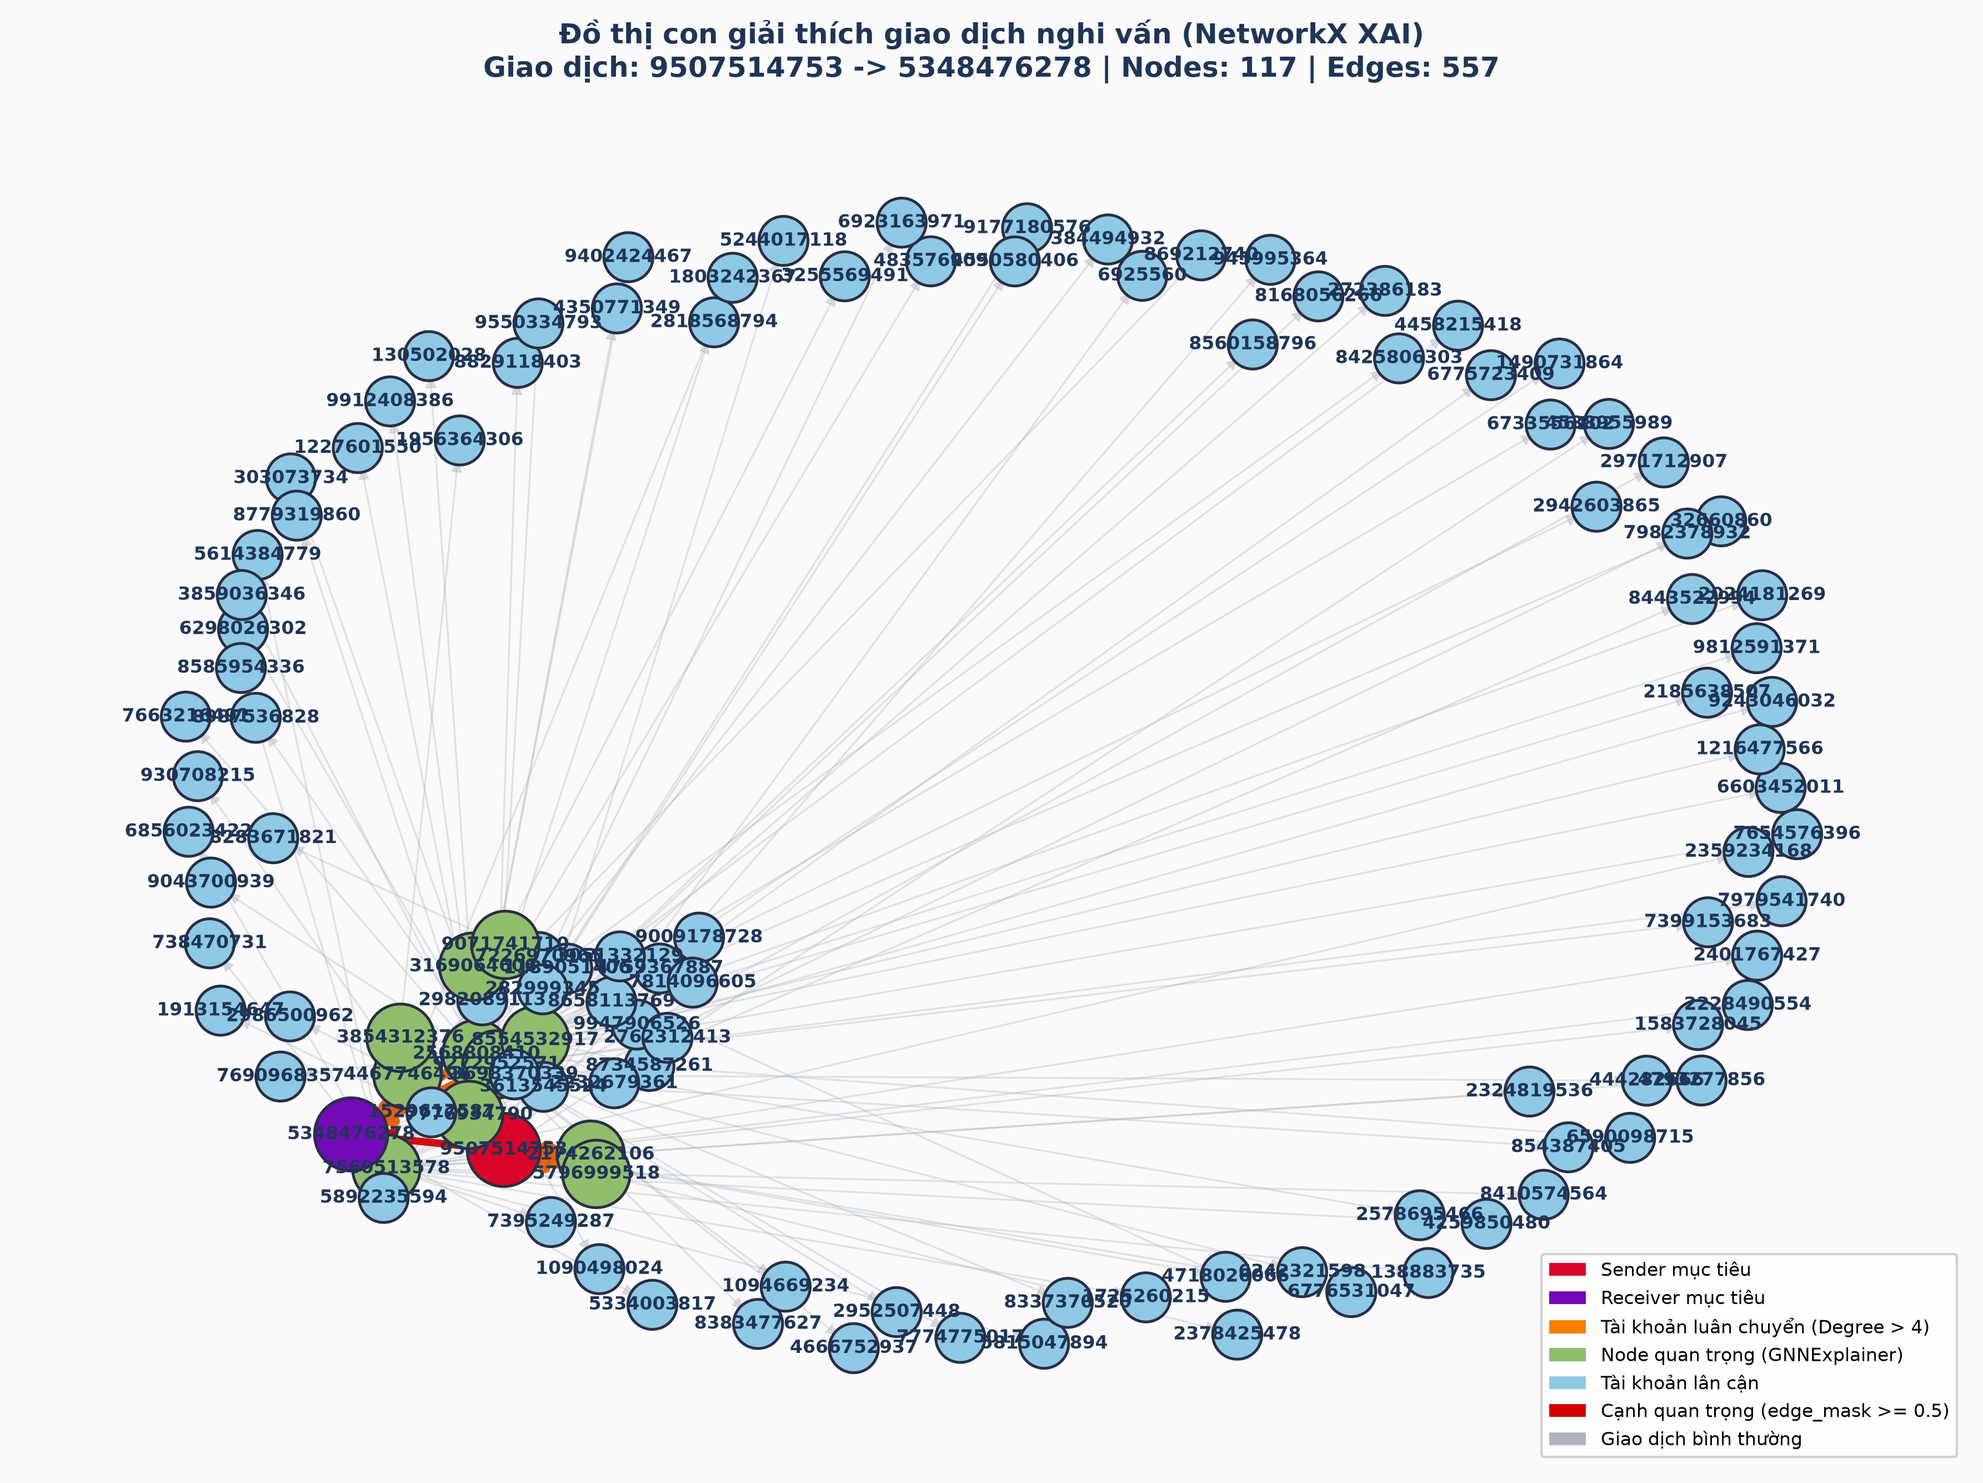
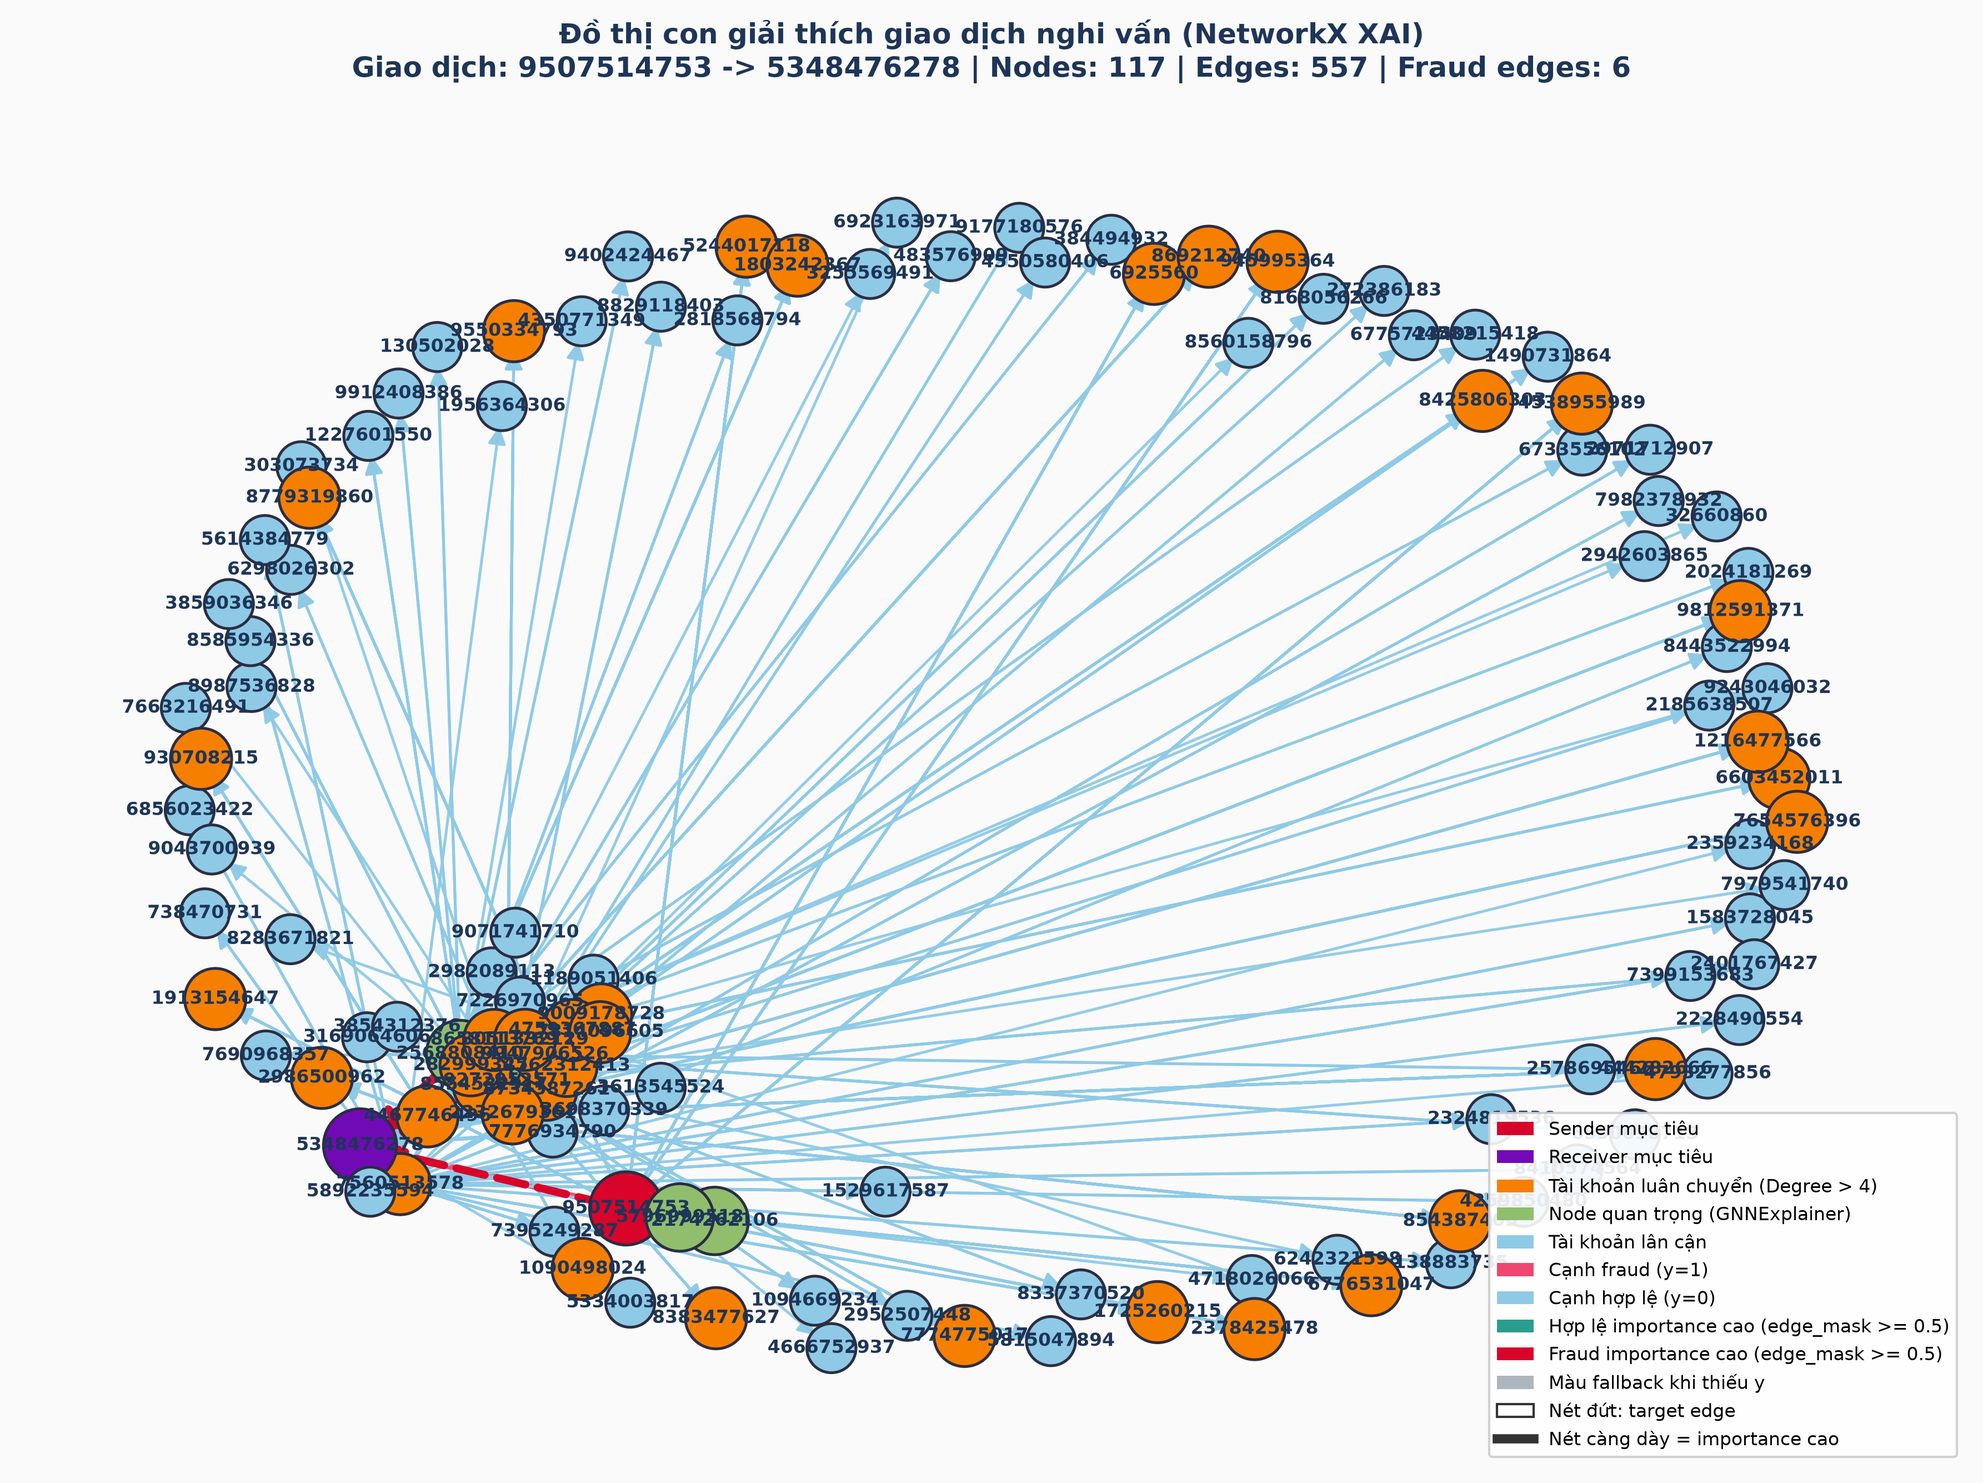
Trực quan hóa giao dịch gian lận thành đồ thị

Changed region(s): [[0.0622, 0.1244, 0.9639, 0.9951], [0.1866, 0.0311, 0.8084, 0.0622]]

diff --git a/src/graph_visualizer.py b/src/graph_visualizer.py
@@ -20,6 +20,7 @@ import matplotlib
 matplotlib.use("Agg")  # Chế độ headless, lưu ảnh trực tiếp không cần mở cửa sổ GUI
 import matplotlib.pyplot as plt
 import matplotlib.patches as mpatches
+import matplotlib.lines as mlines
 import networkx as nx
 import numpy as np
 import torch
@@ -86,6 +87,50 @@ class SubgraphXaiVisualizer:
         s = str(account_id)
         return s if len(s) <= max_len else f"{s[:4]}..{s[-3:]}"
 
+    @staticmethod
+    def _normalize_edge_importance(
+        edge_mask: torch.Tensor | np.ndarray | None,
+        num_edges: int,
+    ) -> np.ndarray:
+        if edge_mask is None:
+            return np.zeros(num_edges, dtype=np.float32)
+        values = (
+            edge_mask.detach().cpu().numpy()
+            if isinstance(edge_mask, torch.Tensor)
+            else np.asarray(edge_mask)
+        )
+        values = np.asarray(values, dtype=np.float32).reshape(-1)
+        if values.size != num_edges:
+            print(
+                f"[Visualizer] Cảnh báo edge_mask có {values.size} phần tử, "
+                f"cần {num_edges}; dùng importance mặc định."
+            )
+            return np.zeros(num_edges, dtype=np.float32)
+        values = np.nan_to_num(np.abs(values), nan=0.0, posinf=0.0, neginf=0.0)
+        maximum = float(values.max()) if values.size else 0.0
+        if maximum <= 0.0:
+            return np.zeros(num_edges, dtype=np.float32)
+        return np.clip(values / maximum, 0.0, 1.0)
+
+    @staticmethod
+    def _get_edge_labels(sub_data: Data, num_edges: int) -> np.ndarray | None:
+        labels = getattr(sub_data, "y", None)
+        if labels is None:
+            print("[Visualizer] Cảnh báo subgraph không có y; dùng màu fallback cho cạnh.")
+            return None
+        if isinstance(labels, torch.Tensor):
+            values = labels.detach().cpu().numpy()
+        else:
+            values = np.asarray(labels)
+        values = np.asarray(values).reshape(-1)
+        if values.size != num_edges:
+            print(
+                f"[Visualizer] Cảnh báo y có {values.size} phần tử, "
+                f"cần {num_edges}; dùng màu fallback cho cạnh."
+            )
+            return None
+        return values
+
     # 2. CHUYỂN ĐỔI PYG SANG NETWORKX VÀ VẼ ĐỒ THỊ
     def plot_subgraph_explanation(
         self,
@@ -99,28 +144,14 @@ class SubgraphXaiVisualizer:
     ) -> Path:
         """
         Vẽ đồ thị con giải thích bằng NetworkX và Matplotlib.
-        Làm nổi bật các cạnh có trọng số edge_mask >= mask_threshold.
+        Màu cạnh lấy từ sub_data.y; edge_mask chỉ điều chỉnh importance và độ dày.
         """
         edge_index = sub_data.edge_index.cpu().numpy()
         num_edges = edge_index.shape[1]
         num_nodes = sub_data.num_nodes
 
-        # Chuẩn bị trọng số edge_mask (nếu chưa có từ TV3, dùng giả lập kiểm thử)
-        if edge_mask is None:
-            edge_weights = np.ones(num_edges, dtype=np.float32) * 0.2
-            target_idx = getattr(sub_data, "target_edge_idx_in_sub", 0)
-            if 0 <= target_idx < num_edges:
-                edge_weights[target_idx] = 0.95
-        else:
-            if isinstance(edge_mask, torch.Tensor):
-                edge_weights = edge_mask.detach().cpu().numpy().astype(np.float32)
-            else:
-                edge_weights = np.asarray(edge_mask, dtype=np.float32)
-            edge_weights = edge_weights.reshape(-1)
-            if edge_weights.size != num_edges:
-                raise ValueError(
-                    f"edge_mask có {edge_weights.size} phần tử, cần {num_edges}"
-                )
+        edge_importance = self._normalize_edge_importance(edge_mask, num_edges)
+        edge_labels = self._get_edge_labels(sub_data, num_edges)
 
         if node_importance is None and hasattr(sub_data, "node_importance"):
             node_importance = sub_data.node_importance
@@ -146,20 +177,32 @@ class SubgraphXaiVisualizer:
             for nid, acc in node_accounts.items()
         }
 
-        # Xây dựng NetworkX DiGraph
-        G = nx.DiGraph()
+        # MultiDiGraph giữ lại cả các giao dịch song song giữa cùng một cặp node.
+        G = nx.MultiDiGraph()
         for i in range(num_nodes):
             G.add_node(i, label=node_labels[i])
 
         target_sub_idx = getattr(sub_data, "target_edge_idx_in_sub", -1)
+        if not isinstance(target_sub_idx, (int, np.integer)) or not 0 <= target_sub_idx < num_edges:
+            target_sub_idx = -1
         for i in range(num_edges):
             u, v = int(edge_index[0, i]), int(edge_index[1, i])
-            w = float(edge_weights[i]) if i < len(edge_weights) else 0.0
-            G.add_edge(u, v, weight=w, is_target=(i == target_sub_idx))
+            G.add_edge(
+                u,
+                v,
+                key=i,
+                edge_index=i,
+                weight=float(edge_importance[i]),
+                label=None if edge_labels is None else int(edge_labels[i] == 1),
+                is_target=(i == target_sub_idx),
+            )
 
         # Phân loại màu cho nút trung tâm (Sender/Receiver mục tiêu)
-        target_u = int(sub_data.target_edge_label_index[0, 0].item()) if hasattr(sub_data, "target_edge_label_index") else 0
-        target_v = int(sub_data.target_edge_label_index[1, 0].item()) if hasattr(sub_data, "target_edge_label_index") else 1
+        target_u, target_v = 0, 1
+        target_index = getattr(sub_data, "target_edge_label_index", None)
+        if isinstance(target_index, torch.Tensor) and target_index.ndim == 2 and target_index.shape[1] > 0:
+            target_u = int(target_index[0, 0].item())
+            target_v = int(target_index[1, 0].item())
 
         node_colors = []
         node_sizes = []
@@ -180,21 +223,35 @@ class SubgraphXaiVisualizer:
                 node_colors.append("#8ecae6")  # Xanh nhạt - Nút thông thường
                 node_sizes.append(450)
 
-        # Phân loại cạnh: Nổi bật (High Mask) vs Cạnh nền (Normal)
-        high_edges = []
-        high_widths = []
-        high_colors = []
-        bg_edges = []
-
-        for u, v, d in G.edges(data=True):
-            w = d.get("weight", 0.0)
-            is_target = d.get("is_target", False)
-            if is_target or w >= mask_threshold:
-                high_edges.append((u, v))
-                high_widths.append(2.0 + w * 3.0)
-                high_colors.append("#d00000" if is_target else "#e85d04")
+        fraud_edges, normal_edges, fallback_edges = [], [], []
+        fraud_widths, normal_widths, fallback_widths = [], [], []
+        fraud_colors, normal_colors, fallback_colors = [], [], []
+        target_edges = []
+        target_colors = []
+        for u, v, key, d in G.edges(keys=True, data=True):
+            importance = float(d["weight"])
+            width = 1.2 + importance * 3.8
+            if d["is_target"]:
+                width += 1.0
+                target_edges.append((u, v, key))
+                if edge_labels is None:
+                    target_colors.append("#e85d04")
+                elif d["label"] == 1:
+                    target_colors.append("#d90429")
+                else:
+                    target_colors.append("#2a9d8f")
+            if edge_labels is None:
+                fallback_edges.append((u, v, key))
+                fallback_widths.append(width)
+                fallback_colors.append("#e85d04" if importance >= mask_threshold else "#adb5bd")
+            elif d["label"] == 1:
+                fraud_edges.append((u, v, key))
+                fraud_widths.append(width)
+                fraud_colors.append("#d90429" if importance >= mask_threshold else "#ef476f")
             else:
-                bg_edges.append((u, v))
+                normal_edges.append((u, v, key))
+                normal_widths.append(width)
+                normal_colors.append("#2a9d8f" if importance >= mask_threshold else "#8ecae6")
 
         # Tính bố cục hiển thị (Spring Layout)
         pos = nx.spring_layout(G, k=1.8 / np.sqrt(max(1, num_nodes)), iterations=70, seed=42)
@@ -203,17 +260,27 @@ class SubgraphXaiVisualizer:
         ax.set_facecolor("#fafafa")
 
         # Vẽ cạnh nền mờ
-        if bg_edges:
+        if fallback_edges:
             nx.draw_networkx_edges(
-                G, pos, edgelist=bg_edges, edge_color="#adb5bd",
-                width=0.8, alpha=0.35, arrows=True, arrowsize=10, ax=ax,
+                G, pos, edgelist=fallback_edges, edge_color=fallback_colors,
+                width=fallback_widths, alpha=0.75, arrows=True, arrowsize=10, ax=ax,
             )
-
-        # Vẽ cạnh nổi bật có trọng số cao
-        if high_edges:
+        if fraud_edges:
             nx.draw_networkx_edges(
-                G, pos, edgelist=high_edges, edge_color=high_colors,
-                width=high_widths, alpha=0.95, arrows=True, arrowsize=16, ax=ax,
+                G, pos, edgelist=fraud_edges, edge_color=fraud_colors,
+                width=fraud_widths, alpha=0.95, arrows=True, arrowsize=16, ax=ax,
+            )
+        if normal_edges:
+            nx.draw_networkx_edges(
+                G, pos, edgelist=normal_edges, edge_color=normal_colors,
+                width=normal_widths, alpha=0.95, arrows=True, arrowsize=16, ax=ax,
+            )
+        if target_edges:
+            nx.draw_networkx_edges(
+                G, pos, edgelist=target_edges, edge_color=target_colors,
+                width=[1.0 + float(G.edges[u, v, key]["weight"]) * 3.8 + 2.0
+                       for u, v, key in target_edges],
+                style="dashed", arrows=True, arrowsize=18, ax=ax,
             )
 
         # Vẽ nút và nhãn
@@ -227,8 +294,13 @@ class SubgraphXaiVisualizer:
             mpatches.Patch(facecolor="#f77f00", label="Tài khoản luân chuyển (Degree > 4)"),
             mpatches.Patch(facecolor="#90be6d", label="Node quan trọng (GNNExplainer)"),
             mpatches.Patch(facecolor="#8ecae6", label="Tài khoản lân cận"),
-            mpatches.Patch(facecolor="#d00000", label=f"Cạnh quan trọng (edge_mask >= {mask_threshold})"),
-            mpatches.Patch(facecolor="#adb5bd", label="Giao dịch bình thường"),
+            mpatches.Patch(facecolor="#ef476f", label="Cạnh fraud (y=1)"),
+            mpatches.Patch(facecolor="#8ecae6", label="Cạnh hợp lệ (y=0)"),
+            mpatches.Patch(facecolor="#2a9d8f", label=f"Hợp lệ importance cao (edge_mask >= {mask_threshold})"),
+            mpatches.Patch(facecolor="#d90429", label=f"Fraud importance cao (edge_mask >= {mask_threshold})"),
+            mpatches.Patch(facecolor="#adb5bd", label="Màu fallback khi thiếu y"),
+            mpatches.Patch(facecolor="none", edgecolor="#333333", label="Nét đứt: target edge"),
+            mlines.Line2D([], [], color="#333333", linewidth=4, label="Nét càng dày = importance cao"),
         ]
         ax.legend(handles=legends, loc="lower right", fontsize=8, framealpha=0.9)
 
@@ -237,7 +309,9 @@ class SubgraphXaiVisualizer:
         dst_acc = meta.get("dst_account", str(target_v))
         ax.set_title(
             f"Đồ thị con giải thích giao dịch nghi vấn (NetworkX XAI)\n"
-            f"Giao dịch: {src_acc} -> {dst_acc} | Nodes: {num_nodes} | Edges: {num_edges}",
+            f"Giao dịch: {src_acc} -> {dst_acc} | Nodes: {num_nodes} | "
+            f"Edges: {num_edges} | Fraud edges: "
+            f"{int(np.sum(edge_labels == 1)) if edge_labels is not None else 'N/A'}",
             fontsize=12, fontweight="bold", color="#1d3557", pad=12,
         )
         ax.axis("off")

diff --git a/tests/test_graph_visualizer.py b/tests/test_graph_visualizer.py
@@ -1,0 +1,73 @@
+import tempfile
+import unittest
+from pathlib import Path
+
+import torch
+from torch_geometric.data import Data
+
+from src.graph_visualizer import SubgraphXaiVisualizer
+
+
+class TestGraphVisualizer(unittest.TestCase):
+    def make_graph(self, labels: torch.Tensor) -> Data:
+        data = Data(
+            x=torch.ones(4, 2),
+            edge_index=torch.tensor([[0, 1, 2, 3], [1, 2, 3, 0]]),
+            y=labels,
+        )
+        data.target_edge_label_index = data.edge_index[:, :1]
+        data.target_edge_idx_in_sub = 0
+        data.orig_account_ids = [10, 20, 30, 40]
+        data.metadata = {"src_account": 10, "dst_account": 20, "num_hops": 2}
+        return data
+
+    def test_labels_are_independent_from_edge_importance(self) -> None:
+        data = self.make_graph(torch.tensor([1, 0, 1, 0]))
+        visualizer = SubgraphXaiVisualizer(mapping_path=None)
+        self.assertEqual(
+            visualizer._get_edge_labels(data, 4).tolist(),
+            [1, 0, 1, 0],
+        )
+        importance = visualizer._normalize_edge_importance(
+            torch.tensor([-2.0, float("nan"), 0.5, 1.0]), 4
+        )
+        self.assertGreater(importance[0], importance[2])
+        self.assertEqual(importance[1], 0.0)
+
+    def test_shape_variants_and_mismatches_fallback(self) -> None:
+        visualizer = SubgraphXaiVisualizer(mapping_path=None)
+        data = self.make_graph(torch.tensor([[1], [0], [1], [0]]))
+        self.assertEqual(visualizer._get_edge_labels(data, 4).tolist(), [1, 0, 1, 0])
+        self.assertIsNone(visualizer._get_edge_labels(data, 3))
+        self.assertEqual(
+            visualizer._normalize_edge_importance(torch.ones(2), 4).tolist(),
+            [0.0, 0.0, 0.0, 0.0],
+        )
+
+    def test_png_is_created_with_label_colors_and_target(self) -> None:
+        data = self.make_graph(torch.tensor([1, 0, 1, 0]))
+        visualizer = SubgraphXaiVisualizer(mapping_path=None)
+        with tempfile.TemporaryDirectory() as directory:
+            output = visualizer.plot_subgraph_explanation(
+                data,
+                edge_mask=torch.tensor([0.1, 0.9, 0.3, 0.8]),
+                output_path=Path(directory) / "graph.png",
+            )
+            self.assertTrue(output.exists())
+            self.assertGreater(output.stat().st_size, 0)
+
+    def test_missing_labels_does_not_crash(self) -> None:
+        data = self.make_graph(torch.tensor([1, 0, 1, 0]))
+        del data.y
+        visualizer = SubgraphXaiVisualizer(mapping_path=None)
+        with tempfile.TemporaryDirectory() as directory:
+            output = visualizer.plot_subgraph_explanation(
+                data,
+                edge_mask=torch.tensor([float("nan"), -1.0, 0.2, 0.3]),
+                output_path=Path(directory) / "fallback.png",
+            )
+            self.assertTrue(output.exists())
+
+
+if __name__ == "__main__":
+    unittest.main()

diff --git a/docs/xai_gnnexplainer.md b/docs/xai_gnnexplainer.md
@@ -256,6 +256,13 @@ Mỗi `explanation_*.pt` chứa:
 - `metadata`
 - `source_subgraph` khi được lưu qua `save_explanation()`
 
+Visualizer giữ toàn bộ cạnh của subgraph để bảo toàn context. Màu cạnh được
+lấy từ `sub_data.y`: `y=1` là fraud (đỏ), `y=0` là hợp lệ (xanh). `edge_mask`
+không được dùng làm fraud label; nó chỉ điều chỉnh độ dày/độ đậm theo
+importance sau khi chuẩn hóa. Cạnh mục tiêu được vẽ nét đứt nhưng vẫn giữ màu
+theo `y`. Khi thiếu hoặc sai shape của `y`/`edge_mask`, visualizer dùng
+fallback an toàn và ghi cảnh báo.
+
 `manifest.csv` bổ sung số node/cạnh, xác suất dự đoán, nhãn thật, max edge
 importance, max node importance và trạng thái xử lý. Reporter phải lưu liên
 kết giữa Reason Code và các artifact này để điều tra viên có thể dựng lại

diff --git a/docs/end_to_end_pipeline.md b/docs/end_to_end_pipeline.md
@@ -382,6 +382,7 @@ if ($env:GEMINI_API_KEY) { "GEMINI_API_KEY is configured" } else { "GEMINI_API_K
 
 ### 11.2. Chạy reporter
 
+Nếu muốn tự chỉnh yêu cầu của báo cáo:
 ```powershell
 python scripts\generate_transaction_reports.py `
   --input-dir data\processed\reason_codes `
@@ -392,6 +393,15 @@ python scripts\generate_transaction_reports.py `
   --timeout 30 `
   --retry-count 2
 ```
+Tạo báo cáo mặc định:
+```powershell
+python scripts\generate_transaction_reports.py `
+  --input-dir data\processed\reason_codes `
+  --output-dir data\processed\transaction_reports `
+  --limit 1 `
+  --force
+```
+
 
 Các tham số:
 
